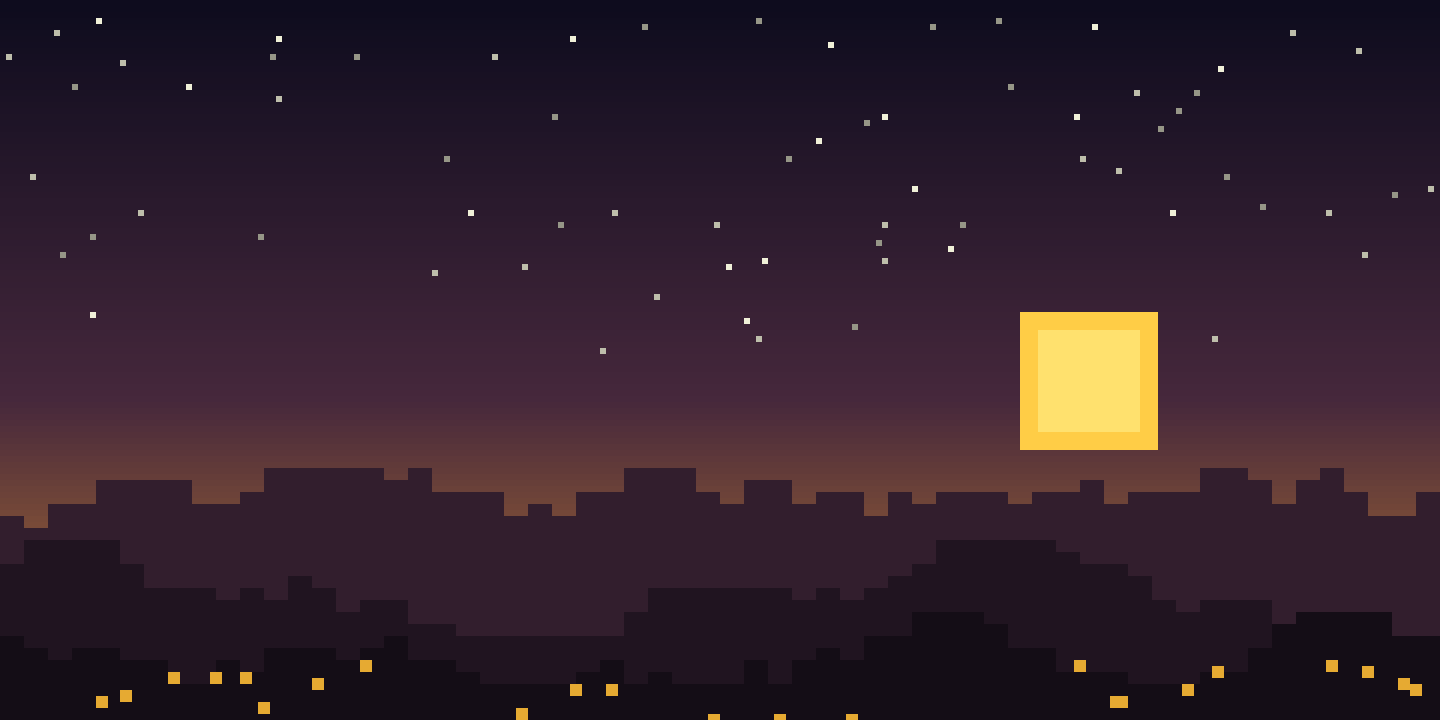
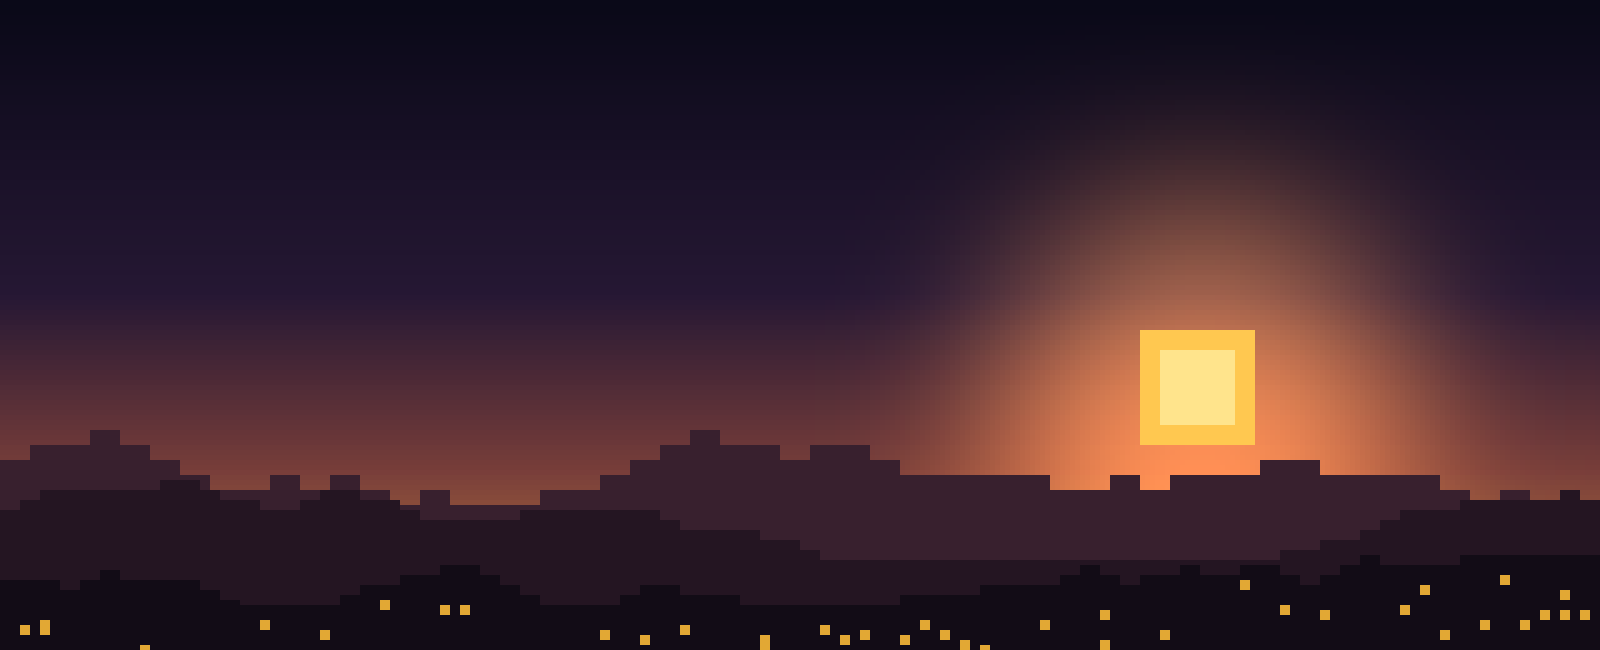
Живой фон профиля Melisyn: звёзды, искры, свечение
Claude-Session: https://claude.ai/code/session_012YgkkrbPaNoSF29dEUPyo4

diff --git a/index.html b/index.html
@@ -290,10 +290,16 @@ main{flex:1;min-width:0;width:100%;padding:0 var(--gut) 56px}
   padding:26px 30px;border-radius:12px;
   background:radial-gradient(ellipse at 12% 0%,rgba(var(--c),.16),transparent 60%),var(--slate);
 }
-.profile.hasbg{background:linear-gradient(90deg,rgba(10,8,18,.15),rgba(10,8,18,.55)),var(--pbg) center bottom/cover;image-rendering:pixelated}
+.profile.hasbg{position:relative;overflow:hidden;isolation:isolate;background:linear-gradient(90deg,rgba(10,8,18,.15),rgba(10,8,18,.55)),var(--pbg) center bottom/cover;image-rendering:pixelated}
 .profile.hasbg>img,.profile.hasbg h1,.profile.hasbg .facts,.profile.hasbg .ktiers{image-rendering:auto}
 .profile.hasbg .fact,.profile.hasbg .ktiers>*{background:rgba(16,14,24,.6);backdrop-filter:blur(6px);-webkit-backdrop-filter:blur(6px)}
 .profile.hasbg h1{text-shadow:0 2px 0 rgba(0,0,0,.5)}
+.profile.hasbg>img,.profile.hasbg>div{position:relative;z-index:2}
+.pfx{position:absolute;inset:0;width:100%;height:100%;z-index:1;pointer-events:none;image-rendering:pixelated}
+.pglow{position:absolute;z-index:1;left:0;bottom:-10%;width:340px;height:120%;pointer-events:none;background:radial-gradient(closest-side,rgba(255,190,80,.28),transparent);animation:pglow 5s ease-in-out infinite}
+@keyframes pglow{50%{opacity:.55;transform:scale(.94)}}
+@media(max-width:560px){.pglow{width:200px}}
+@media(prefers-reduced-motion:reduce){.pglow{animation:none}}
 .profile>img{height:220px;object-fit:contain}
 .profile h1{font-family:'Pixelify Sans',system-ui,sans-serif;font-size:clamp(24px,3vw,32px);font-weight:600;word-break:break-all}
 .profile>div{flex:1 1 280px;min-width:0}
@@ -823,6 +829,7 @@ function playerPage(name){
   return `
   <a href="#/" class="back"><svg viewBox="0 0 24 24"><path d="M15 6l-6 6 6 6"/></svg>Назад</a>
   <div class="profile g${tierNum(top)}${PBG[p.name.toLowerCase()] ? ' hasbg' : ''}"${PBG[p.name.toLowerCase()] ? ` style="--pbg:url('${PBG[p.name.toLowerCase()]}')"` : ''}>
+    ${PBG[p.name.toLowerCase()] ? '<canvas class="pfx" aria-hidden="true"></canvas><span class="pglow" aria-hidden="true"></span>' : ''}
     ${skinImg(p.name, 'full')}
     <div>
       <h1>${esc(p.name)}</h1>
@@ -1326,8 +1333,53 @@ function router(){
   markShortColumns();
   watchSkins();
   wireMePage();
+  startProfileFx();
   if(seg === 'team') loadTeam();
   if(seg === 'admin') wireAdmin();
+}
+
+// Живой фон профиля: мерцающие звёзды и поднимающиеся искры (пиксельные)
+let fxRaf = 0;
+function startProfileFx(){
+  cancelAnimationFrame(fxRaf);
+  const cv = document.querySelector('.pfx');
+  if(!cv) return;
+  const still = window.matchMedia && matchMedia('(prefers-reduced-motion: reduce)').matches;
+  const ctx = cv.getContext('2d');
+  const P = 3; // размер «пикселя»
+  let w = 0, h = 0, stars = [], sparks = [];
+  const r = cv.getBoundingClientRect();
+  w = Math.max(1, Math.round(r.width / P)); h = Math.max(1, Math.round(r.height / P));
+  cv.width = w; cv.height = h;
+  stars = Array.from({length: Math.round(w * h / 520)}, () => ({x: Math.random() * w | 0, y: Math.random() * h * .4 | 0, ph: Math.random() * 6.28, sp: .6 + Math.random() * 1.6}));
+  const spark = initial => ({x: Math.random() * w, y: initial ? Math.random() * h : h + 2, vy: .05 + Math.random() * .12, vx: (Math.random() - .5) * .04, life: initial ? Math.random() * 200 : 0, max: 260 + Math.random() * 320, big: Math.random() < .25});
+  sparks = Array.from({length: Math.round(w / 14)}, () => spark(true));
+  let last = performance.now();
+  function frame(t){
+    if(!cv.isConnected) return;
+    const dt = Math.min(3, (t - last) / 16.7); last = t;
+    ctx.clearRect(0, 0, w, h);
+    for(const s of stars){
+      const a = .3 + .7 * Math.max(0, Math.sin(t / 1000 * s.sp + s.ph));
+      ctx.fillStyle = `rgba(255,244,220,${a.toFixed(2)})`;
+      ctx.fillRect(s.x, s.y, 1, 1);
+    }
+    for(let i = 0; i < sparks.length; i++){
+      const s = sparks[i];
+      s.life += dt; s.y -= s.vy * dt; s.x += s.vx * dt + Math.sin((s.life + i * 40) / 60) * .03;
+      const k = s.life / s.max;
+      if(k >= 1 || s.y < -2){ sparks[i] = spark(false); continue; }
+      const a = k < .15 ? k / .15 : 1 - (k - .15) / .85;
+      ctx.fillStyle = `rgba(255,${s.big ? 215 : 185},90,${(a * .9).toFixed(2)})`;
+      ctx.fillRect(s.x | 0, s.y | 0, s.big ? 2 : 1, s.big ? 2 : 1);
+    }
+    if(!still) fxRaf = requestAnimationFrame(frame);
+  }
+  frame(last);
+  if(!startProfileFx.wired){
+    startProfileFx.wired = true;
+    let tm; addEventListener('resize', () => { clearTimeout(tm); tm = setTimeout(() => { if(document.querySelector('.pfx')) startProfileFx(); }, 150); });
+  }
 }
 
 function normalize(list){
